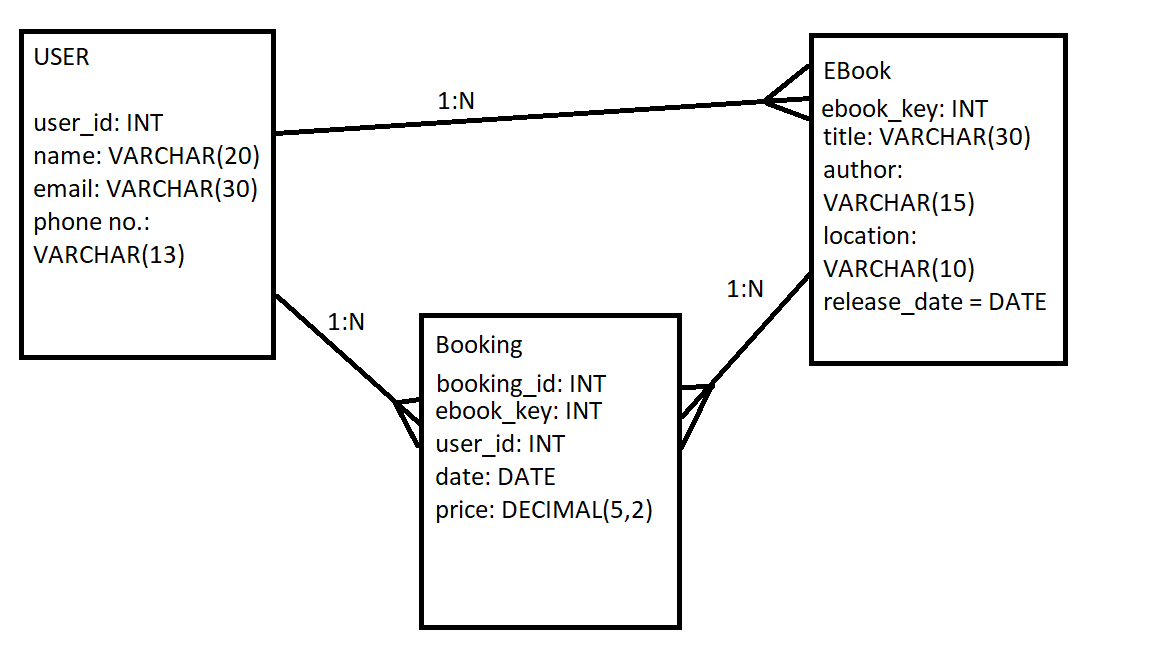
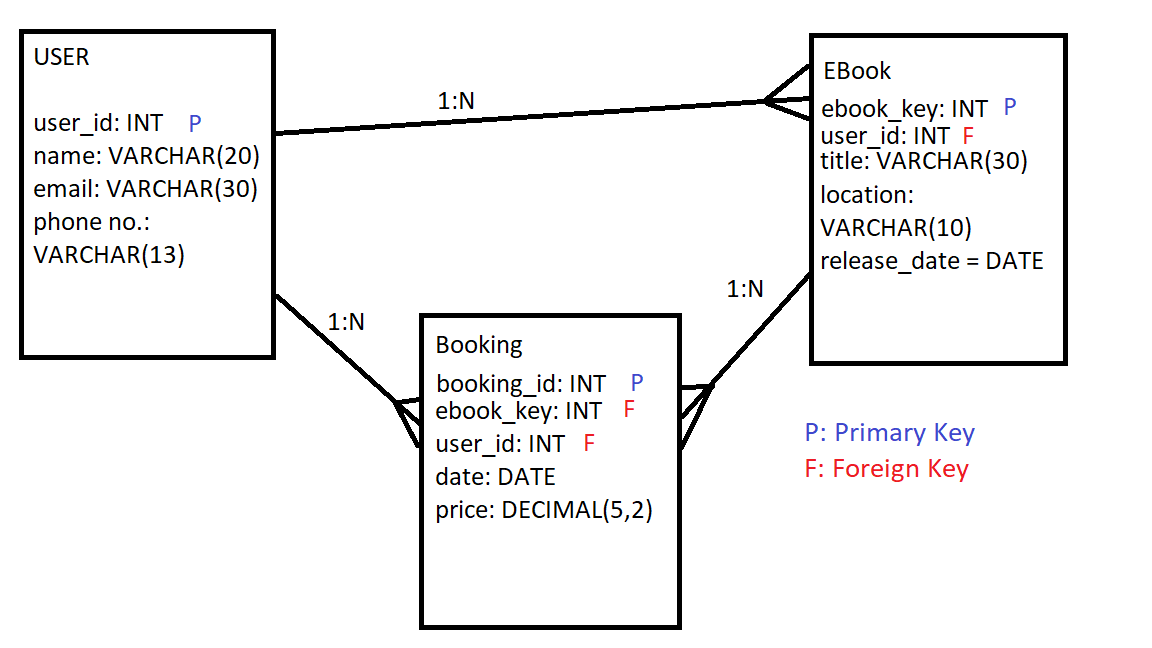
edits to picture and added code notes for creating table

diff --git a/w2_sql/2610_ebooks.md b/w2_sql/2610_ebooks.md
@@ -1,4 +1,4 @@
-#EBooks Task
+# EBooks Task
 
 [SQL Exercise Requirements](https://github.com/Filipe-p/sql)
 
@@ -9,4 +9,50 @@
 ### Questions
 
 _What is the relationship between the tables?_
+- USER to EBook: Assuming one (primary) author per EBook, one user can write multiple EBooks, therefore it is a 1:N relationship. If we allow for multiple users to contribute to one EBook then it would be a N:N relationship.
+- USER to Booking: One user can make bookings for multiple Ebooks, therefore it is a 1:N relationship.
+- EBook to Booking: An instance of an EBook can be checked out multiple times, therefore it would be a 1:N relationship.
+
+_Can users rent out books?_
+A user can rent out multiple books through multiple bookings.
+
+_How many 1:N relationships are there?_
+There are 3 1:N relationships.
+
+_Do we have or do we need a N:N relationship?_
+If we allow for multiple users to contribute to one book then User-to-Ebook would be a N:N relationship. Also if we allow for multiple EBooks to be checked out for one booking then that would also be a N:N relationship.
+
+
+## Setting Up the DB
+
+```
+-- create database
+CREATE DATABASE booksareus_db;
+
+USE booksareus_db;
+
+-- create tables
+CREATE TABLE users(
+	user_id INT NOT NULL IDENTITY(1,1) PRIMARY KEY,
+	name VARCHAR(20) NOT NULL,
+	email VARCHAR(30) NOT NULL,
+	phone_number VARCHAR(13) NOT NULL
+);
+
+CREATE TABLE ebooks(
+	ebook_id INT NOT NULL IDENTITY(1,1) PRIMARY KEY,
+	user_id INT FOREIGN KEY REFERENCES users(user_id),
+	title VARCHAR(30) NOT NULL,
+	location VARCHAR(10) NOT NULL,
+	release_date DATE NOT NULL
+);
+
+CREATE TABLE bookings(
+	booking_id INT NOT NULL IDENTITY(1,1) PRIMARY KEY,
+	user_id INT FOREIGN KEY REFERENCES users(user_id),
+	ebook_id INT FOREIGN KEY REFERENCES ebooks(ebook_id),
+	booking_date DATE NOT NULL,
+	price DECIMAL(5,2) NOT NULL
+);
+```
 
